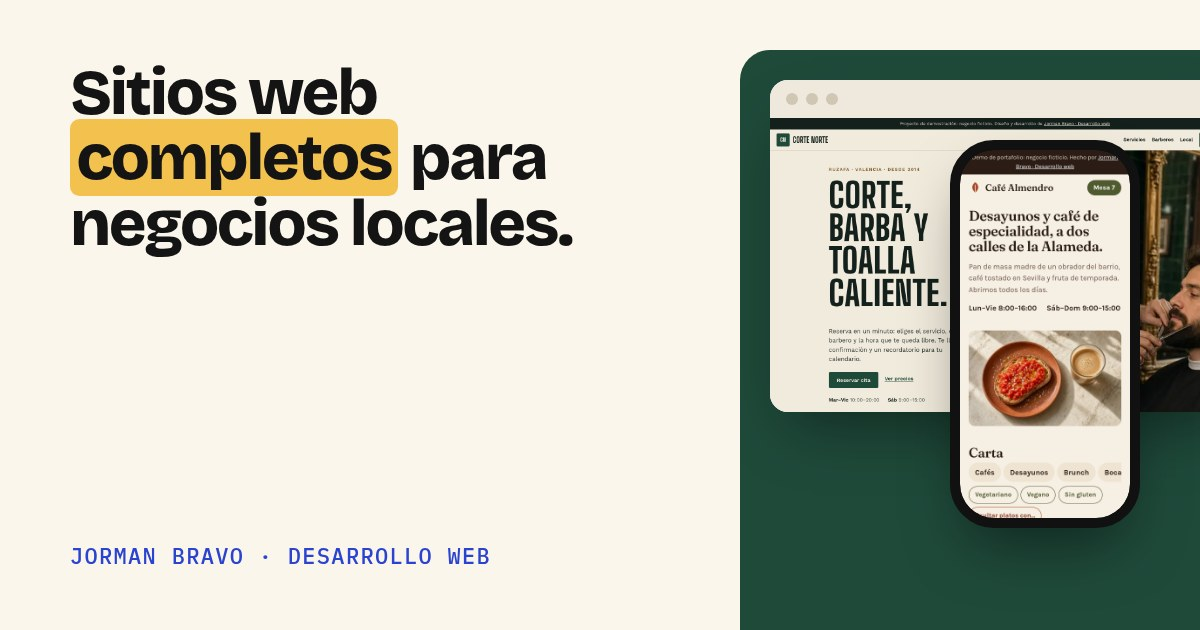
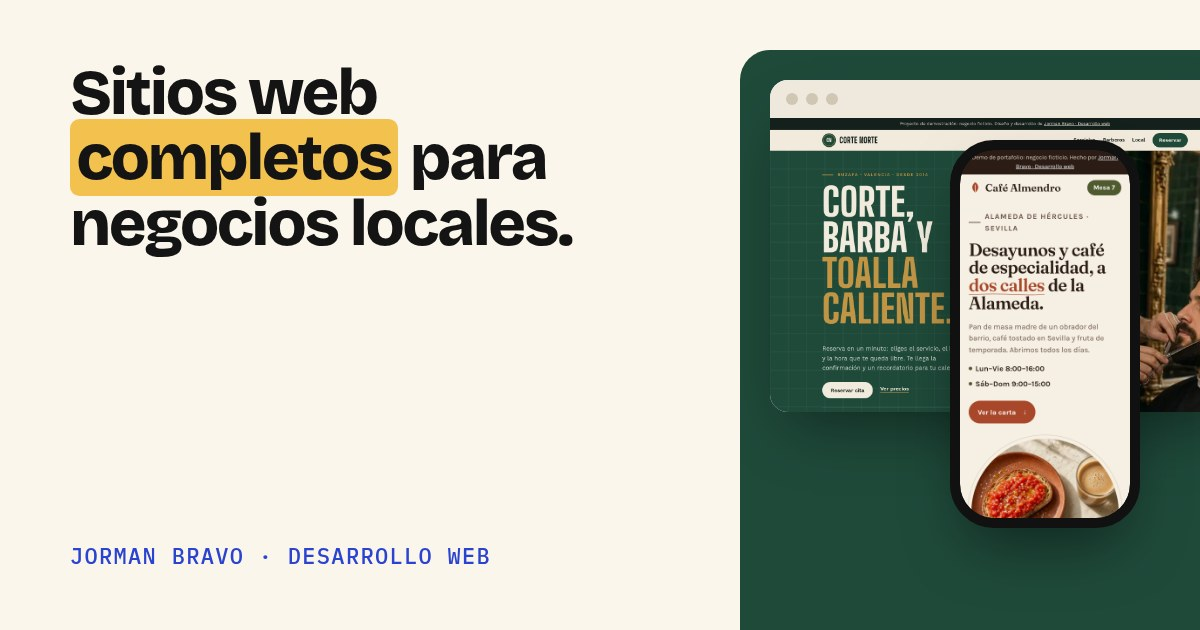
Portafolio: miniaturas nuevas de los demos rediseñados (v2) y caché renovada

Changed region(s): [[0.6167, 0.2111, 1.0, 0.8444], [0.8325, 0.2714, 0.8942, 0.3016]]

diff --git a/index.html b/index.html
@@ -20,8 +20,8 @@
 <link rel="preload" href="fonts/bricolage-grotesque-normal-var.woff2" as="font" type="font/woff2" crossorigin>
 <link rel="preload" as="image" href="img/jorman-480.webp" imagesrcset="img/jorman-480.webp 480w, img/jorman-800.webp 800w" imagesizes="(min-width: 960px) 360px, 240px">
 <link rel="stylesheet" href="fonts.css">
-<link rel="stylesheet" href="styles.css">
-<script src="main.js" defer></script>
+<link rel="stylesheet" href="styles.css?v2">
+<script src="main.js?v2" defer></script>
 <script type="application/ld+json">
 {"@context":"https://schema.org","@graph":[
 {"@type":"Person","@id":"https://jormanj2b.github.io/#jorman","name":"Jorman Bravo","jobTitle":"Desarrollador web freelance","address":{"@type":"PostalAddress","addressCountry":"VE"},"image":"https://jormanj2b.github.io/img/jorman-192.webp","url":"https://jormanj2b.github.io/","sameAs":["https://www.freelancer.es/u/Jormanbm","https://www.instagram.com/jorman_j2b/","https://github.com/jormanj2b"],"knowsLanguage":["es","en"]},
@@ -57,8 +57,8 @@
   </div>
   <div class="hero-art" aria-hidden="true">
     <div class="tile tile-photo"><img src="img/jorman-480.webp" srcset="img/jorman-480.webp 480w, img/jorman-800.webp 800w" sizes="(min-width: 960px) 360px, 240px" width="800" height="800" alt="" fetchpriority="high"></div>
-    <div class="tile tile-browser"><div class="bar"><i></i><i></i><i></i></div><img src="img/barberia-480.webp" width="960" height="600" alt=""></div>
-    <div class="tile tile-phone"><img src="img/cafe-movil.webp" width="300" height="649" alt=""></div>
+    <div class="tile tile-browser"><div class="bar"><i></i><i></i><i></i></div><img src="img/barberia-v2-480.webp" width="960" height="600" alt=""></div>
+    <div class="tile tile-phone"><img src="img/cafe-v2-movil.webp" width="300" height="649" alt=""></div>
     <p class="tile tile-badge mono">Lighthouse móvil<br><b>98–100</b></p>
   </div>
 </section>
@@ -80,8 +80,8 @@
   
   <article class="project p-laborathorno project-big">
     <a class="shot" href="https://jormanj2b.github.io/laborathorno-demo/" target="_blank" rel="noopener" tabindex="-1" aria-hidden="true">
-      <span class="browser"><span class="bar"><i></i><i></i><i></i></span><img src="img/laborathorno-480.webp" srcset="img/laborathorno-480.webp 480w, img/laborathorno-960.webp 960w" sizes="(min-width: 1100px) 60vw, 90vw" width="960" height="600" alt="" loading="lazy" decoding="async"></span>
-      <span class="phone"><img src="img/laborathorno-movil.webp" width="300" height="649" alt="" loading="lazy" decoding="async"></span>
+      <span class="browser"><span class="bar"><i></i><i></i><i></i></span><img src="img/laborathorno-v2-480.webp" srcset="img/laborathorno-v2-480.webp 480w, img/laborathorno-v2-960.webp 960w" sizes="(min-width: 1100px) 60vw, 90vw" width="960" height="600" alt="" loading="lazy" decoding="async"></span>
+      <span class="phone"><img src="img/laborathorno-v2-movil.webp" width="300" height="649" alt="" loading="lazy" decoding="async"></span>
     </a>
     <div class="project-text">
       <p class="label mono"><span>01</span>Catálogo digital + pedidos por WhatsApp</p>
@@ -94,8 +94,8 @@
   </article>
   <article class="project p-barberia">
     <a class="shot" href="https://jormanj2b.github.io/demo-barberia/" target="_blank" rel="noopener" tabindex="-1" aria-hidden="true">
-      <span class="browser"><span class="bar"><i></i><i></i><i></i></span><img src="img/barberia-480.webp" srcset="img/barberia-480.webp 480w, img/barberia-960.webp 960w" sizes="(min-width: 1100px) 45vw, 90vw" width="960" height="600" alt="" loading="lazy" decoding="async"></span>
-      <span class="phone"><img src="img/barberia-movil.webp" width="300" height="649" alt="" loading="lazy" decoding="async"></span>
+      <span class="browser"><span class="bar"><i></i><i></i><i></i></span><img src="img/barberia-v2-480.webp" srcset="img/barberia-v2-480.webp 480w, img/barberia-v2-960.webp 960w" sizes="(min-width: 1100px) 45vw, 90vw" width="960" height="600" alt="" loading="lazy" decoding="async"></span>
+      <span class="phone"><img src="img/barberia-v2-movil.webp" width="300" height="649" alt="" loading="lazy" decoding="async"></span>
     </a>
     <div class="project-text">
       <p class="label mono"><span>02</span>Página de reservas</p>
@@ -108,8 +108,8 @@
   </article>
   <article class="project p-cafe">
     <a class="shot" href="https://jormanj2b.github.io/demo-cafe/?mesa=7" target="_blank" rel="noopener" tabindex="-1" aria-hidden="true">
-      <span class="browser"><span class="bar"><i></i><i></i><i></i></span><img src="img/cafe-480.webp" srcset="img/cafe-480.webp 480w, img/cafe-960.webp 960w" sizes="(min-width: 1100px) 45vw, 90vw" width="960" height="600" alt="" loading="lazy" decoding="async"></span>
-      <span class="phone"><img src="img/cafe-movil.webp" width="300" height="649" alt="" loading="lazy" decoding="async"></span>
+      <span class="browser"><span class="bar"><i></i><i></i><i></i></span><img src="img/cafe-v2-480.webp" srcset="img/cafe-v2-480.webp 480w, img/cafe-v2-960.webp 960w" sizes="(min-width: 1100px) 45vw, 90vw" width="960" height="600" alt="" loading="lazy" decoding="async"></span>
+      <span class="phone"><img src="img/cafe-v2-movil.webp" width="300" height="649" alt="" loading="lazy" decoding="async"></span>
     </a>
     <div class="project-text">
       <p class="label mono"><span>03</span>Carta digital con QR</p>
@@ -122,8 +122,8 @@
   </article>
   <article class="project p-tienda">
     <a class="shot" href="https://jormanj2b.github.io/demo-tienda/" target="_blank" rel="noopener" tabindex="-1" aria-hidden="true">
-      <span class="browser"><span class="bar"><i></i><i></i><i></i></span><img src="img/tienda-480.webp" srcset="img/tienda-480.webp 480w, img/tienda-960.webp 960w" sizes="(min-width: 1100px) 45vw, 90vw" width="960" height="600" alt="" loading="lazy" decoding="async"></span>
-      <span class="phone"><img src="img/tienda-movil.webp" width="300" height="649" alt="" loading="lazy" decoding="async"></span>
+      <span class="browser"><span class="bar"><i></i><i></i><i></i></span><img src="img/tienda-v2-480.webp" srcset="img/tienda-v2-480.webp 480w, img/tienda-v2-960.webp 960w" sizes="(min-width: 1100px) 45vw, 90vw" width="960" height="600" alt="" loading="lazy" decoding="async"></span>
+      <span class="phone"><img src="img/tienda-v2-movil.webp" width="300" height="649" alt="" loading="lazy" decoding="async"></span>
     </a>
     <div class="project-text">
       <p class="label mono"><span>04</span>Tienda online</p>
@@ -136,8 +136,8 @@
   </article>
   <article class="project p-asesoria">
     <a class="shot" href="https://jormanj2b.github.io/demo-asesoria/" target="_blank" rel="noopener" tabindex="-1" aria-hidden="true">
-      <span class="browser"><span class="bar"><i></i><i></i><i></i></span><img src="img/asesoria-480.webp" srcset="img/asesoria-480.webp 480w, img/asesoria-960.webp 960w" sizes="(min-width: 1100px) 45vw, 90vw" width="960" height="600" alt="" loading="lazy" decoding="async"></span>
-      <span class="phone"><img src="img/asesoria-movil.webp" width="300" height="649" alt="" loading="lazy" decoding="async"></span>
+      <span class="browser"><span class="bar"><i></i><i></i><i></i></span><img src="img/asesoria-v2-480.webp" srcset="img/asesoria-v2-480.webp 480w, img/asesoria-v2-960.webp 960w" sizes="(min-width: 1100px) 45vw, 90vw" width="960" height="600" alt="" loading="lazy" decoding="async"></span>
+      <span class="phone"><img src="img/asesoria-v2-movil.webp" width="300" height="649" alt="" loading="lazy" decoding="async"></span>
     </a>
     <div class="project-text">
       <p class="label mono"><span>05</span>Sitio corporativo</p>
@@ -150,8 +150,8 @@
   </article>
   <article class="project p-gimnasio project-big">
     <a class="shot" href="https://jormanj2b.github.io/demo-gimnasio/" target="_blank" rel="noopener" tabindex="-1" aria-hidden="true">
-      <span class="browser"><span class="bar"><i></i><i></i><i></i></span><img src="img/gimnasio-480.webp" srcset="img/gimnasio-480.webp 480w, img/gimnasio-960.webp 960w" sizes="(min-width: 1100px) 60vw, 90vw" width="960" height="600" alt="" loading="lazy" decoding="async"></span>
-      <span class="phone"><img src="img/gimnasio-movil.webp" width="300" height="649" alt="" loading="lazy" decoding="async"></span>
+      <span class="browser"><span class="bar"><i></i><i></i><i></i></span><img src="img/gimnasio-v2-480.webp" srcset="img/gimnasio-v2-480.webp 480w, img/gimnasio-v2-960.webp 960w" sizes="(min-width: 1100px) 60vw, 90vw" width="960" height="600" alt="" loading="lazy" decoding="async"></span>
+      <span class="phone"><img src="img/gimnasio-v2-movil.webp" width="300" height="649" alt="" loading="lazy" decoding="async"></span>
     </a>
     <div class="project-text">
       <p class="label mono"><span>06</span>Landing de conversión</p>
